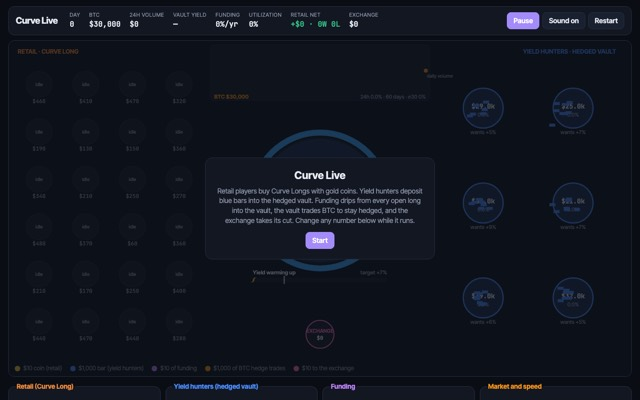
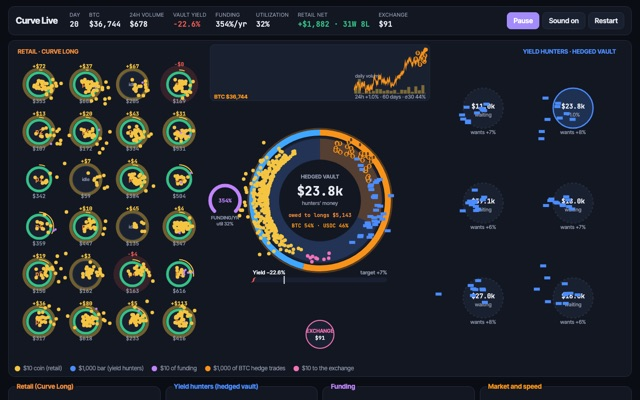
Yield: Top holders (live, read from vault storage); live chart entry line; desktop footer; README: judge walkthrough, hackathon disclosure, no design section; new live-game thumbnail

diff --git a/app/public/js/app.js b/app/public/js/app.js
@@ -123,6 +123,12 @@ $("p").addEventListener("input", paintSlider); paintSlider();
 // ── DEMO: fast-forward replay ──
 // One continuous market: each trade plays the next history snippet scaled to start at the last price.
 let playing = null, trail = []; // { stop }, samples { m: market move, v: position move } while open
+// Live: the entry price of the position on screen, kept across chart reloads (5M/1H/1D/1W)
+let liveMark = { price: 0, label: "" };
+function setLiveMark(price, known = true) {
+  const label = price ? `your entry ${known ? "" : "≈ "}${fmtP(price)}` : "";
+  liveMark = { price, label }; if (mode === "live") chart.mark(price || null, label);
+}
 function loadDemoChart() { chart.set(demo.history()); chart.mark(null); $("px").textContent = fmtP(chart.price()); $("chg").textContent = ""; }
 async function demoBuy() {
   const a = amount(), p = P();
@@ -295,7 +301,7 @@ function renderPosition() {
     $("chg").textContent = pct(px / q.entry - 1, 1) + " since you bought"; $("chg").className = "small num " + (px >= q.entry ? "pos" : "neg");
     $("balance").textContent = fmt(demo.balance + v);
   } else {
-    const p = P(), a = heldLong(p); if (!a || browseBuy) return;
+    const p = P(), a = heldLong(p); if (!a || browseBuy) { setLiveMark(0); return; }
     renderOthers(p);
     const v = Number(a.value) / E6, c = Number(a.cost) / E6, m = live.state.market, b = bucketOf(p);
     $("posFundRow").hidden = true; renderFunding();
@@ -304,6 +310,7 @@ function renderPosition() {
     // estimate if we didn't see the buy: value ≈ cost × (P/E)^p  →  E ≈ P × (cost/value)^(1/p) (melt makes it a little high)
     const entry = known || (v > 0 ? pNow * Math.pow(c * 0.997 / v, 1 / p) : 0);
     $("posEntry").textContent = entry ? (known ? "" : "≈ ") + fmtP(entry) : "—"; $("posNow").textContent = fmtP(pNow);
+    setLiveMark(entry, known); // dashed line on the chart where you bought
     showCurve(p, entry ? pNow / entry - 1 : null); // your dot on the curve, no ±10% markers
     $("posPnl").textContent = `${v >= c ? "+" : "−"}${fmt(Math.abs(v - c))} · ×${(v / c).toFixed(2)}`; $("posPnl").className = "num " + (v >= c ? "pos" : "neg");
     // at today's rate the position pays v·f/365 a day, so it would melt away in about 365/f days
@@ -347,7 +354,7 @@ function stopStream() { try { stream?.close(); } catch {} stream = null; }
 const GRAN = { "5m": 5, "1h": 60, "1d": 300, "1w": 3600 }; // seconds per candle
 async function loadLiveChart() {
   startStream();
-  try { const rows = await fetch(`/api/history?range=${range}`).then((r) => r.json()); chart.set(rows.slice(-70)); lastCandleT = rows.length ? rows[rows.length - 1][0] : 0; chart.mark(null); } catch {}
+  try { const rows = await fetch(`/api/history?range=${range}`).then((r) => r.json()); chart.set(rows.slice(-70)); lastCandleT = rows.length ? rows[rows.length - 1][0] : 0; chart.mark(liveMark.price, liveMark.label); } catch {}
   $("mkt").textContent = `${live.cfg.asset} / USD`; $("mktNote").textContent = live.cfg.testnet ? "Live · testnet" : "Live";
 }
 // ── "Add USDC to start": bridge, swap (scan the wallet's tokens), or testnet USDC ──
@@ -431,7 +438,24 @@ const costKey = () => `uprise.v1.vaultIn.${live?.accountId}`;
 const vaultCost = () => { const r = ls.get(costKey()); return r != null ? Number(r) : Number(live?.state?.pos?.shares || 0) / E6; };
 // desktop donut: USDC share in cobalt, the NEAR hedge in ink
 function paintDonut(usdc) { $("vDonut").style.setProperty("--u", (usdc * 100).toFixed(1) + "%"); $("vDonutPct").textContent = Math.round(usdc * 100) + "%"; }
+// Live only: the vault's largest depositors (the server reads them from the vault's storage)
+let holdersAt = 0;
+const esc = (t) => String(t).replace(/[&<>"']/g, (c) => `&#${c.charCodeAt(0)};`);
+const shortId = (id) => /^[0-9a-f]{64}$/.test(id) ? id.slice(0, 6) + "…" + id.slice(-4) : id.replace(/\.testnet$/, "");
+async function renderHolders() {
+  const card = $("holdersCard"); card.hidden = mode !== "live"; if (card.hidden || Date.now() - holdersAt < 20_000) return;
+  holdersAt = Date.now();
+  try {
+    const h = await (await fetch("/api/holders")).json(); if (mode !== "live") return;
+    $("hCount").textContent = h.count === 1 ? "1 depositor" : `${h.count} depositors`;
+    $("hList").innerHTML = h.holders.map((x) => {
+      const me = x.account_id === live?.accountId, n = esc(shortId(x.account_id));
+      return `<li${me ? ' class="me"' : ""}><span class="hn" title="${esc(x.account_id)}">${n}${me ? ' <em>YOU</em>' : ""}</span><span class="hs">${x.share < 0.001 ? "<0.1" : (x.share * 100).toFixed(x.share < 0.1 ? 1 : 0)}%</span><b>${fmt(x.value, 0)}</b><i style="width:${Math.max(1, x.share * 100).toFixed(1)}%"></i></li>`;
+    }).join("") || '<li class="none">No deposits yet.</li>';
+  } catch { holdersAt = 0; }
+}
 function renderCrab() {
+  renderHolders();
   $("crabTag").textContent = mode === "demo" ? "demo" : live?.cfg?.testnet ? "live · testnet" : "live";
   if (mode === "demo") {
     const tvl = 250_000 + demo.vault.stake;

diff --git a/app/public/app.css b/app/public/app.css
@@ -300,6 +300,8 @@ html { touch-action: manipulation; -webkit-text-size-adjust: 100%; } input, sele
 
   /* Yield: vault overview left, your stake and deposit right */
   #tab-crab { display: grid; grid-template-columns: minmax(0, 1fr) 420px; gap: 18px; align-items: start; }
+  /* the vault card and Top holders on the left, your stake on the right */
+  #tab-crab > section.card:not(#liveStart) { grid-column: 1; } #tab-crab > section.card:has(#stakeCv) { grid-column: 2; grid-row: span 2; }
   .stake-plot { height: 170px; }
 
   /* Analytics: big canvas left, the legend right */
@@ -327,4 +329,24 @@ input:focus, input:focus-visible, select:focus, select:focus-visible, textarea:f
   .lbl-m, .sub-how .how, #vBar { display: none; } .lbl-d { display: inline; } .how-d { display: inline-block; margin-left: 8px; vertical-align: 3px; }
   .donut-wrap { display: flex; justify-content: center; margin: 18px 0 8px; } #tab-crab .legend { justify-content: center; }
   #tab-crab.start-only { grid-template-columns: minmax(0, 1fr); } #tab-crab > #liveStart { grid-column: 1 / -1; max-width: 520px; justify-self: center; width: 100%; }
+}
+
+/* Yield → Top holders (live only): rank, name, share, value, with a thin bar for the share */
+.hlist { list-style: none; counter-reset: h; margin: 10px 0 0; padding: 0; display: grid; gap: 6px; }
+.hlist li { counter-increment: h; position: relative; display: grid; grid-template-columns: 22px minmax(0, 1fr) auto auto; gap: 10px; align-items: baseline; padding: 8px 0 10px; font-size: 15px; }
+.hlist li::before { content: counter(h); color: var(--muted); font-weight: 700; font-size: 13px; }
+.hlist li.none::before { content: none; } .hlist li.none { display: block; color: var(--muted); }
+.hlist .hn { overflow: hidden; text-overflow: ellipsis; white-space: nowrap; font-weight: 600; }
+.hlist .hn em { font-style: normal; font-size: 10px; font-weight: 800; letter-spacing: .06em; background: var(--ink); color: var(--panel); padding: 2px 6px; border-radius: 999px; margin-left: 4px; vertical-align: 2px; }
+.hlist .hs { color: var(--muted); font-size: 13px; } .hlist b { font-weight: 700; text-align: right; min-width: 64px; }
+.hlist li i { position: absolute; left: 32px; bottom: 2px; height: 3px; border-radius: 3px; background: var(--ink); opacity: .25; max-width: calc(100% - 32px); }
+.hlist li.me i { background: var(--up); opacity: 1; }
+
+/* desktop footer: what Uprise is, the lab, GitHub and X */
+.foot { display: none; }
+@media (min-width: 1000px) {
+  .foot { display: flex; justify-content: space-between; align-items: center; gap: 16px; flex-wrap: wrap; margin-top: auto; padding: 16px 4px 0; border-top: 1.5px solid var(--line); font-size: 14px; color: var(--ink); }
+  .foot a { color: var(--ink); font-weight: 700; text-decoration: underline; text-underline-offset: 3px; }
+  .foot-links { display: flex; gap: 18px; } .foot-links a { display: inline-flex; align-items: center; gap: 7px; text-decoration: none; }
+  .foot-links svg { width: 16px; height: 16px; }
 }

diff --git a/app/server.js b/app/server.js
@@ -13,6 +13,7 @@
 //   POST /api/recover/finish {email, code}   returns the stored key(s)
 //   GET  /api/history?range=5m|1h|1d|1w candles for the asset (Coinbase)
 //   GET  /api/vault-history          vault share price samples
+//   GET  /api/holders                the vault's largest depositors (read from its storage)
 //   POST /api/deposit-address {account_id, asset, amount}  mainnet: 1Click deposit address → USDC to this account
 import http from "node:http";
 import fs from "node:fs";
@@ -130,6 +131,24 @@ async function sampleVault() {
 }
 setInterval(sampleVault, 60_000); sampleVault();
 
+// The vault's share holders. The contract has no list view, but every holder is a key in its `shares`
+// map (storage prefix 0x00, then the borsh account id; the value is u128 shares), so we read the raw state.
+let holdersCache = { t: 0, v: null };
+async function holders() {
+  if (holdersCache.v && Date.now() - holdersCache.t < 30_000) return holdersCache.v;
+  const [st, v] = await Promise.all([provider.query({ request_type: "view_state", finality: "final", account_id: d.vault, prefix_base64: "AA==" }), view(d.vault, "get_vault")]);
+  const total = BigInt(v.total_shares), nav = BigInt(v.snapshot.nav);
+  const list = st.values.map(({ key, value }) => {
+    const k = Buffer.from(key, "base64"), b = Buffer.from(value, "base64");
+    const id = k.subarray(5, 5 + k.readUInt32LE(1)).toString("utf8");
+    const shares = b.readBigUInt64LE(0) + (b.readBigUInt64LE(8) << 64n);
+    return { account_id: id, value: total > 0n ? Number((shares * nav) / total) / 1e6 : 0 };
+  }).filter((h) => h.value >= 0.01).sort((a, b) => b.value - a.value);
+  const tvl = Number(nav) / 1e6;
+  holdersCache = { t: Date.now(), v: { tvl, count: list.length, holders: list.slice(0, 10).map((h) => ({ ...h, share: tvl > 0 ? h.value / tvl : 0 })) } };
+  return holdersCache.v;
+}
+
 async function refillRelayer() {
   // Testnet only: when the relayer runs low, pull 10 NEAR from the public testnet faucet.
   if (!TESTNET || (await balanceNear(relayer.accountId)) > 3) return;
@@ -157,6 +176,7 @@ const server = http.createServer(async (req, res) => {
     if (url.pathname === "/api/rpc" && req.method === "POST") return rpcProxy(req, res);
     if (url.pathname === "/api/history") return json(res, 200, await history(url.searchParams.get("range") || "1d"));
     if (url.pathname === "/api/vault-history") return json(res, 200, state.vault.slice(-2_000));
+    if (url.pathname === "/api/holders") return json(res, 200, await holders());
     if (url.pathname === "/api/relay" && req.method === "POST") {
       if (limited(req, "relay", 60, 600_000)) return json(res, 429, { error: "too many transactions, slow down" });
       const { signed_delegate } = await body(req, 20_000);

diff --git a/app/public/index.html b/app/public/index.html
@@ -118,6 +118,10 @@
       <p class="hint" id="vNote"></p>
       <p class="err" id="vErr"></p>
     </section>
+    <section class="card holders" id="holdersCard" hidden>
+      <div class="row-between"><h3>Top holders</h3><span class="muted small" id="hCount"></span></div>
+      <ol class="hlist" id="hList"></ol>
+    </section>
   </main>
 
   <!-- 📊 ANALYTICS -->
@@ -138,6 +142,15 @@
       </ul>
     </section>
   </main>
+
+  <!-- desktop only -->
+  <footer class="foot">
+    <span><b>Uprise:</b> liquidation-free power perpetuals on NEAR. Learn more in the <a href="/lab">Uprise lab</a>.</span>
+    <span class="foot-links">
+      <a href="https://github.com/CansyLand/Uprise" target="_blank" rel="noopener" aria-label="Uprise on GitHub"><svg viewBox="0 0 16 16" aria-hidden="true"><path fill="currentColor" d="M8 0C3.58 0 0 3.58 0 8c0 3.54 2.29 6.53 5.47 7.59.4.07.55-.17.55-.38 0-.19-.01-.82-.01-1.49-2.01.37-2.53-.49-2.69-.94-.09-.23-.48-.94-.82-1.13-.28-.15-.68-.52-.01-.53.63-.01 1.08.58 1.23.82.72 1.21 1.87.87 2.33.66.07-.52.28-.87.51-1.07-1.78-.2-3.64-.89-3.64-3.95 0-.87.31-1.59.82-2.15-.08-.2-.36-1.02.08-2.12 0 0 .67-.21 2.2.82.64-.18 1.32-.27 2-.27.68 0 1.36.09 2 .27 1.53-1.04 2.2-.82 2.2-.82.44 1.1.16 1.92.08 2.12.51.56.82 1.27.82 2.15 0 3.07-1.87 3.75-3.65 3.95.29.25.54.73.54 1.48 0 1.07-.01 1.93-.01 2.2 0 .21.15.46.55.38A8.013 8.013 0 0016 8c0-4.42-3.58-8-8-8z"/></svg>GitHub</a>
+      <a href="https://x.com/CansyLand" target="_blank" rel="noopener" aria-label="CansyLand on X"><svg viewBox="0 0 24 24" aria-hidden="true"><path fill="currentColor" d="M18.244 2.25h3.308l-7.227 8.26 8.502 11.24H16.17l-5.214-6.817L4.99 21.75H1.68l7.73-8.835L1.254 2.25H8.08l4.713 6.231zm-1.161 17.52h1.833L7.084 4.126H5.117z"/></svg>@CansyLand</a>
+    </span>
+  </footer>
 </div>
 
 <nav class="tabs" role="tablist">

diff --git a/README.md b/README.md
@@ -6,6 +6,25 @@
 
 **Try it:** [uprise.wtf](https://uprise.wtf). Start in Demo mode with play money; no wallet needed.
 
+## Try it in five minutes
+
+**Demo (play money, no wallet):**
+
+1. Open [uprise.wtf](https://uprise.wtf). Five intro slides explain the idea; tap **Next** or **Skip**. You land on 🐮 **Trade** with $1,000 of play money.
+2. Move the strength slider to x⁵, tap **50%**, then **Buy**. A real NEAR price rally replays in fast-forward: your position's value rises faster than the price, and the bar under it shrinks as the position melts.
+3. Slide to x¹⁰: confetti.
+4. Open 🦀 **Yield**: a $10,000 vault stake that grows a day per second while you watch.
+5. Open 📊 **Analytics**: coins flowing from traders to the vault and on to liquidity providers.
+
+**Live (NEAR testnet, real contracts):**
+
+1. Flip the switch at the top from **Demo** to **Live** (it says **Testnet** on desktop) and tap **Create custodial wallet**. You get a NEAR account with 1,000 test USDC. You need no NEAR for gas: the server relays every action as a meta-transaction.
+2. On **Trade**, pick x³, enter $50 and tap **Buy**. The card shows your position with its entry price, and a dashed line on the chart marks where you bought.
+3. On **Yield**, deposit $100. It shows "Settling…" until the vault's next update (about a minute), then your stake, and you appear in **Top holders**.
+4. On **Analytics**, your trader circle is marked **YOU**.
+
+Already use NEAR? **Connect NEAR wallet** works with Meteor, MyNearWallet and Intear; the wallet sheet has a **Get 1,000 test USDC** button for any testnet account.
+
 ## What it is, in plain words
 
 Uprise has two sides, and they need each other.
@@ -28,7 +47,7 @@ A live picture of where the yield comes from: traders on the left, the vault in 
 
 ## Behind the simple app
 
-It took a lot of math and many experiments to make this feel simple. Everything below can be opened and played with in the browser. The [lab](https://uprise.wtf/lab) collects them on one page.
+It took a lot of math and many experiments to make this feel simple. The simulators below run in the browser; open one and play. The [lab](https://uprise.wtf/lab) collects them on one page.
 
 ### Simulators: how the money moves
 
@@ -39,14 +58,6 @@ It took a lot of math and many experiments to make this feel simple. Everything 
 | [<img src="app/public/lab/curve-simulator.jpg" width="300">](https://uprise.wtf/sim/curve-simulator.html) | **[Who pays whom](https://uprise.wtf/sim/curve-simulator.html)**<br>Four traders and the exchange share one pool. Move time and price and watch where every dollar goes. |
 | [<img src="app/public/lab/two-sided-vault.jpg" width="300">](https://uprise.wtf/sim/two-sided-vault.html) | **[When does the vault earn?](https://uprise.wtf/sim/two-sided-vault.html)**<br>The two products in one pool, and when the yield vault makes money: when fees are above the volatility that really happens. |
 | [<img src="app/public/lab/volume-calculator.jpg" width="300">](https://uprise.wtf/sim/volume-calculator.html) | **[Volume calculator](https://uprise.wtf/sim/volume-calculator.html)**<br>How many traders and trades it takes to reach a trading volume, and what fees that brings. |
-
-### Design studies: how it should feel
-
-| | |
-|---|---|
-| [<img src="app/public/lab/design-languages.jpg" width="300">](https://uprise.wtf/styles.html) | **[17 design languages](https://uprise.wtf/styles.html)**<br>The same screen as neo-brutalism, glass, terminal, 8-bit, iOS liquid glass, screen print and more. Number 15 became the app. |
-| [<img src="app/public/lab/result-designs.jpg" width="300">](https://uprise.wtf/result-designs.html) | **[Result cards](https://uprise.wtf/result-designs.html)**<br>Three rounds of designs for the card after a trade. |
-| [<img src="app/public/lab/celebrations.jpg" width="300">](https://uprise.wtf/particles.html) | **[The x¹⁰ celebration](https://uprise.wtf/particles.html)**<br>Particle effects for maxing out the slider, on a screen that is already full of color. |
 
 ### Research and models
 
@@ -98,6 +109,14 @@ node app/server.js
 ```
 
 Then open `http://localhost:8787`. The testnet accounts and contracts are listed in [`ops/README.md`](ops/README.md).
+
+## Built at NEAR HACKATHON
+
+Uprise was built during [NEAR HACKATHON](https://nearhackathon.com) (2026): the first commit is from 2026-11-07, and there is no earlier code. The `perpetual` branch keeps the first idea from the same week, an order-book perpetual (PRISM).
+
+- **Contracts:** Rust with [near-sdk](https://github.com/near/near-sdk-rs) 5 and near-contract-standards (NEP-141 tokens), `uint` for 256-bit math.
+- **App and scripts:** [near-api-js](https://github.com/near/near-api-js), [NEAR Wallet Selector](https://github.com/near/wallet-selector) (Meteor, MyNearWallet, Intear), NEAR Intents 1Click API for cross-chain deposits. Price data from the public Coinbase (and Binance) APIs. Space Grotesk font.
+- **AI:** written with AI coding assistance (Claude Code).
 
 ## License
 
